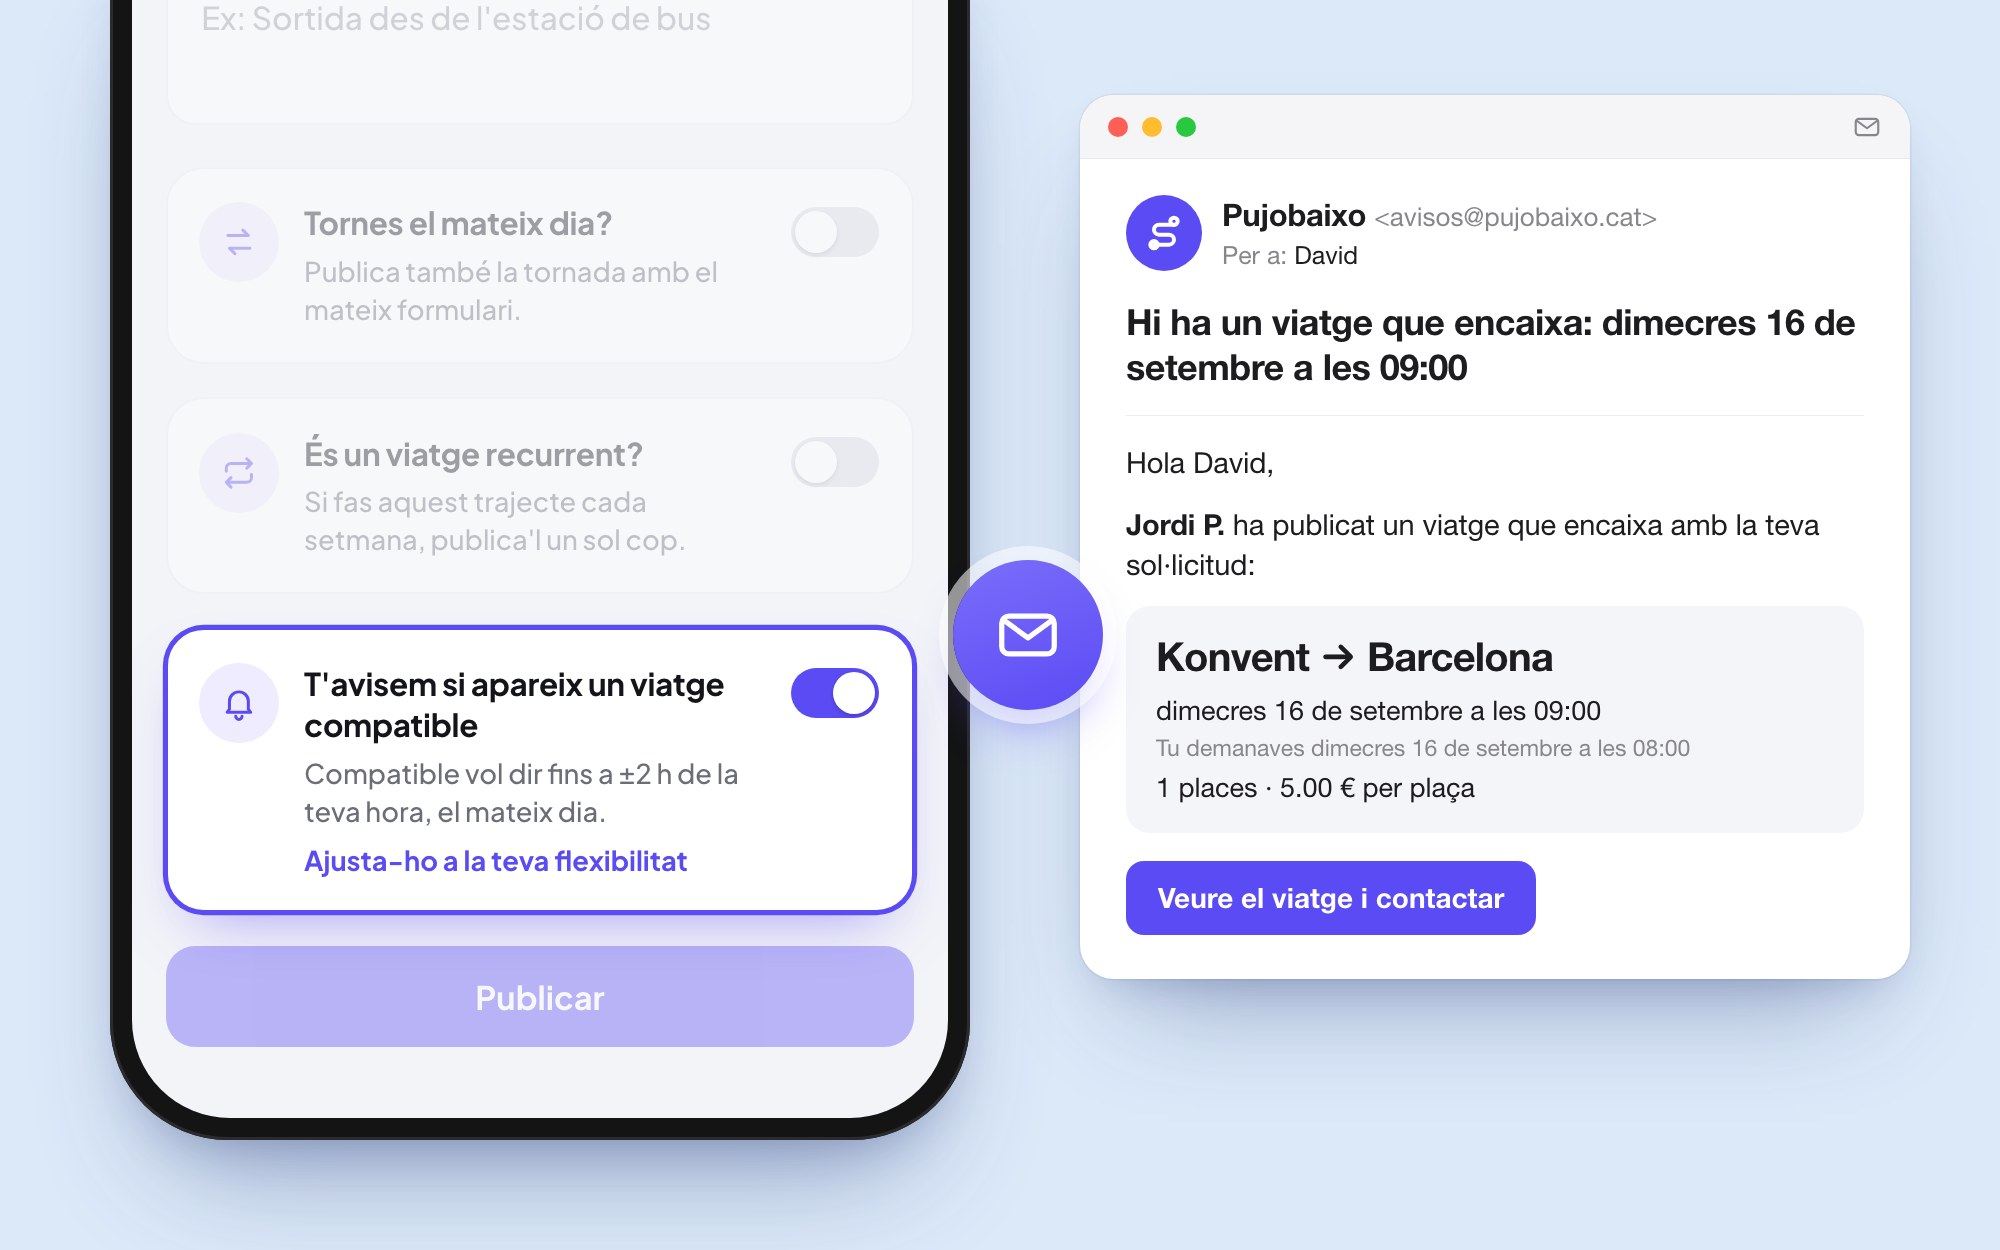
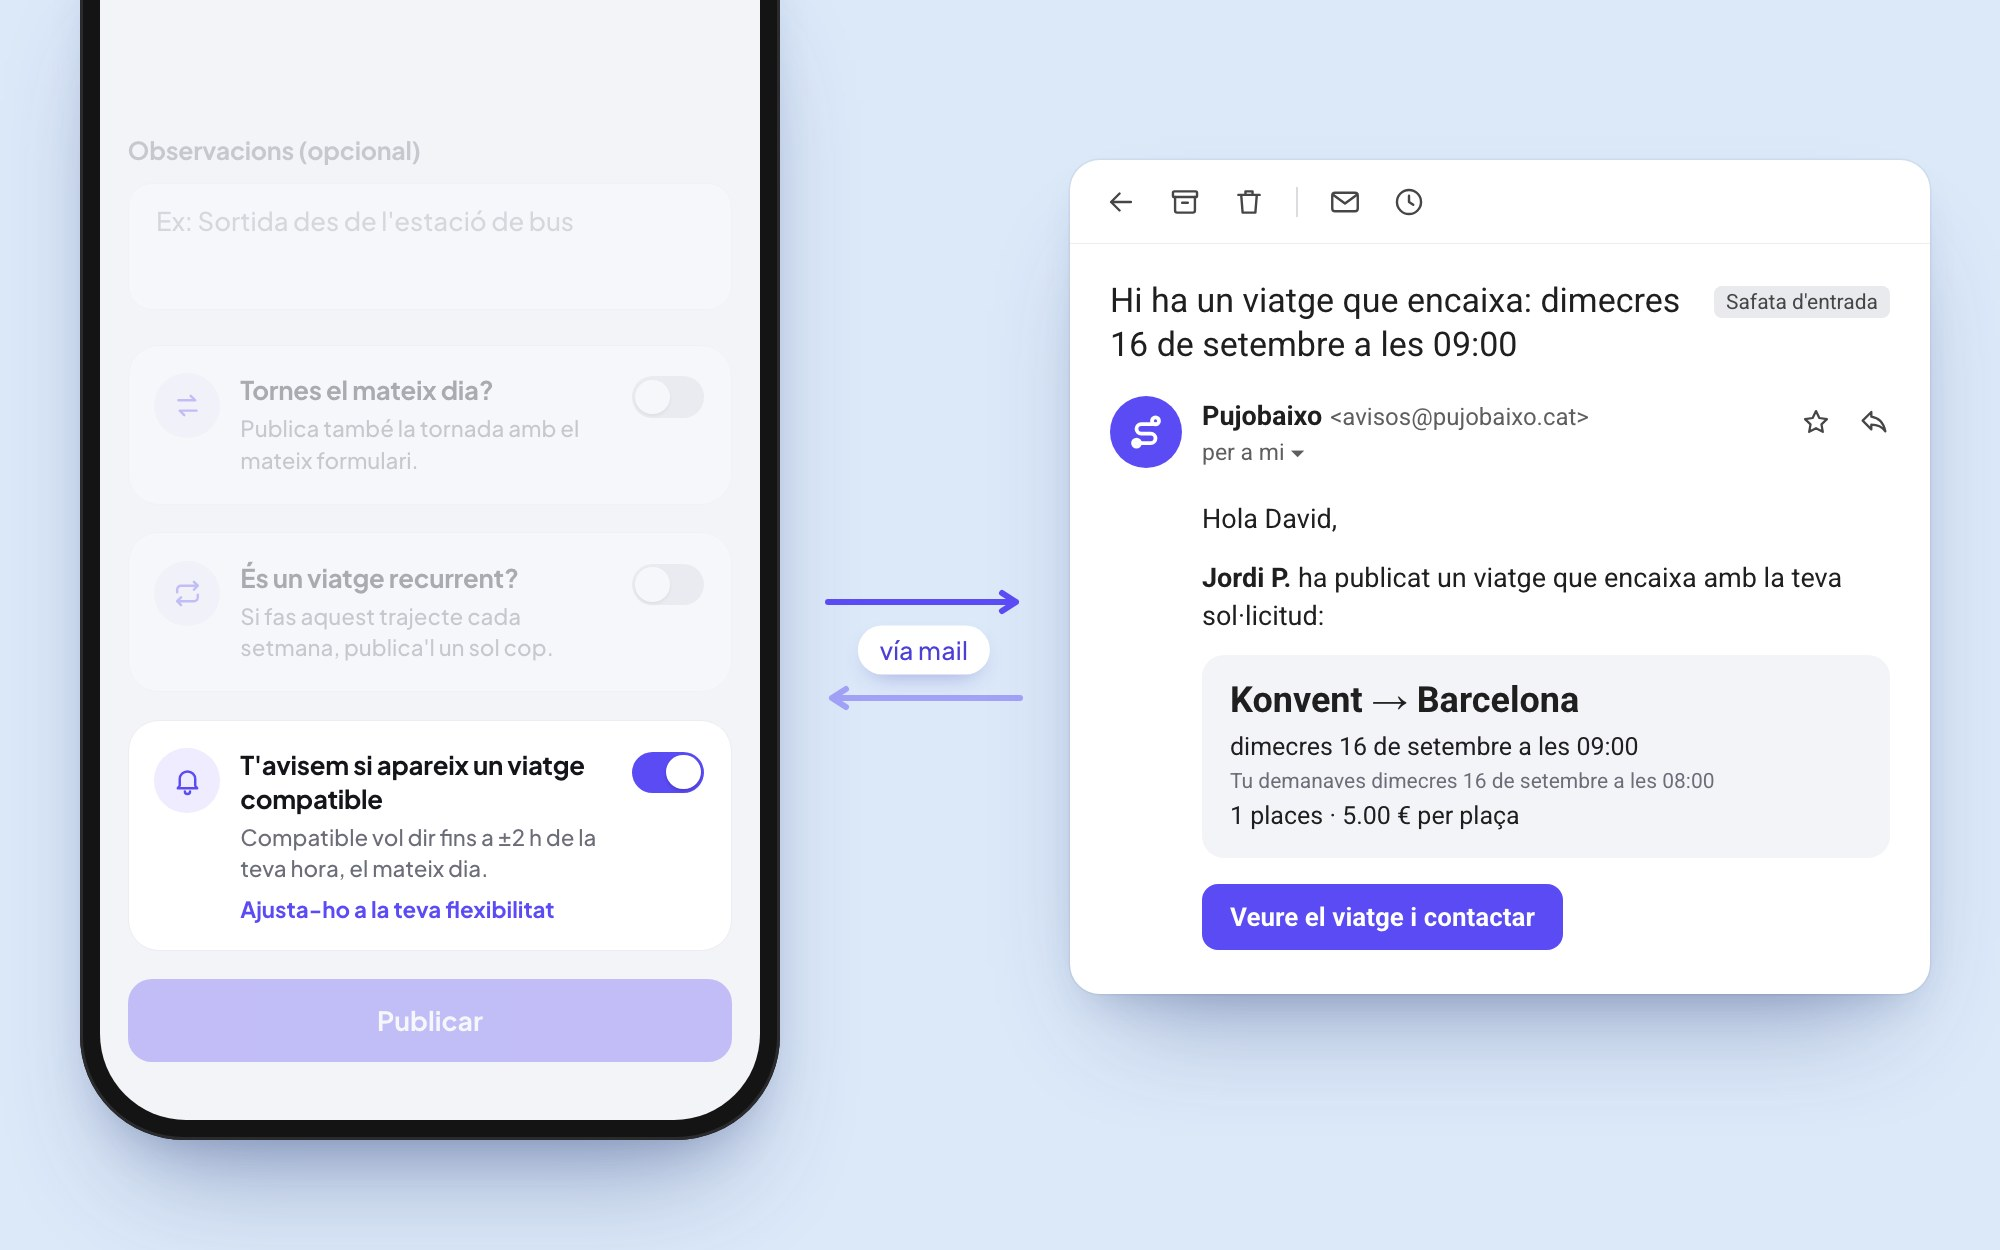
Pujo Baixo: el aviso, con correo tipo Gmail y flechas «vía mail»

Changed region(s): [[0.031, 0.0, 0.992, 0.9672], [0.155, 0.2184, 0.279, 0.2496]]

diff --git a/pujobaixo.html b/pujobaixo.html
@@ -7,9 +7,9 @@
 <meta name="description" content="Pujo Baixo: de un experimento en WhatsApp a una red local para compartir coche entre el Berguedà y Barcelona.">
 <link rel="preconnect" href="https://fonts.googleapis.com">
 <link rel="stylesheet" href="https://fonts.googleapis.com/css2?family=Figtree:wght@400;500;600;700&family=Fraunces:opsz,wght@9..144,600&display=swap">
-<link rel="stylesheet" href="css/base.css?v=5b738f8">
-<link rel="stylesheet" href="css/caso.css?v=5b738f8">
-<script src="js/comun.js?v=5b738f8" defer></script>
+<link rel="stylesheet" href="css/base.css?v=75cdf43">
+<link rel="stylesheet" href="css/caso.css?v=75cdf43">
+<script src="js/comun.js?v=75cdf43" defer></script>
 <script src="analytics.js" defer></script>
 </head>
 <body class="p-pujobaixo">
@@ -155,7 +155,7 @@
       <h3>Repetir sin empezar de cero</h3>
       <p>Las últimas funcionalidades reducen el esfuerzo de quien hace el trayecto a menudo: publicar la vuelta en el mismo formulario, marcar un viaje como recurrente para publicarlo una sola vez y recibir un aviso si aparece un viaje compatible (hasta ±2 h, el mismo día, ajustable).</p>
       <p>El aviso llega por correo, personalizado: quién ha publicado, la ruta, su hora frente a la que pedías y un botón para contactar.</p>
-      <figure class="inbody"><button type="button" class="js-zoom" aria-label="Ampliar: el aviso por correo"><img src="img/pujobaixo/pb-aviso.jpg" alt="El aviso de Pujobaixo en una sola imagen: a la izquierda, la parte baja del formulario con T'avisem si apareix un viatge compatible activado y destacado; en el centro, un icono de correo; a la derecha, el correo en una ventana de app de correo, de Pujobaixo <avisos@pujobaixo.cat> para David, con el asunto Hi ha un viatge que encaixa: dimecres 16 de setembre a les 09:00, el viaje Konvent → Barcelona y el botón Veure el viatge i contactar" loading="lazy"></button><figcaption>Se activa al publicar la solicitud y, cuando aparece un viaje compatible, llega un correo con el viaje y un botón para contactar.</figcaption></figure>
+      <figure class="inbody"><button type="button" class="js-zoom" aria-label="Ampliar: el aviso por correo"><img src="img/pujobaixo/pb-aviso.jpg" alt="El aviso de Pujobaixo en una sola imagen: a la izquierda, la parte baja del formulario con T'avisem si apareix un viatge compatible activado y el resto atenuado; en el centro, unas flechas de ida y vuelta con la etiqueta vía mail; a la derecha, el correo abierto en un buzón tipo Gmail, de Pujobaixo <avisos@pujobaixo.cat>, con el asunto Hi ha un viatge que encaixa: dimecres 16 de setembre a les 09:00, el viaje Konvent → Barcelona y el botón Veure el viatge i contactar" loading="lazy"></button><figcaption>Se activa al publicar la solicitud y, cuando aparece un viaje compatible, llega un correo con el viaje y un botón para contactar.</figcaption></figure>
     </div>
   </section>
   <section class="row col">
@@ -205,6 +205,6 @@
   <span>Barcelona · 2026</span>
 </div></footer>
 
-<script src="js/caso.js?v=5b738f8"></script>
+<script src="js/caso.js?v=75cdf43"></script>
 </body>
 </html>

diff --git a/en/pujobaixo.html b/en/pujobaixo.html
@@ -8,9 +8,9 @@
 <meta name="description" content="Pujo Baixo: from a WhatsApp experiment to a local carpooling network between Berguedà and Barcelona.">
 <link rel="preconnect" href="https://fonts.googleapis.com">
 <link rel="stylesheet" href="https://fonts.googleapis.com/css2?family=Figtree:wght@400;500;600;700&family=Fraunces:opsz,wght@9..144,600&display=swap">
-<link rel="stylesheet" href="css/base.css?v=5b738f8">
-<link rel="stylesheet" href="css/caso.css?v=5b738f8">
-<script src="js/comun.js?v=5b738f8" defer></script>
+<link rel="stylesheet" href="css/base.css?v=75cdf43">
+<link rel="stylesheet" href="css/caso.css?v=75cdf43">
+<script src="js/comun.js?v=75cdf43" defer></script>
 <script src="analytics.js" defer></script>
 </head>
 <body class="p-pujobaixo">
@@ -156,7 +156,7 @@
       <h3>Repeating without starting from scratch</h3>
       <p>The latest features reduce the effort for people who make the trip often: post the return trip in the same form, mark a trip as recurring so it’s posted only once, and get an alert if a compatible trip appears (within ±2 h, same day, adjustable).</p>
       <p>The alert arrives by email, personalized: who posted, the route, their time versus the one you asked for, and a button to get in touch.</p>
-      <figure class="inbody"><button type="button" class="js-zoom" aria-label="Enlarge: the email alert"><img src="img/pujobaixo/pb-aviso.jpg" alt="The Pujobaixo alert in a single image: on the left, the bottom of the form with T'avisem si apareix un viatge compatible switched on and highlighted; in the middle, an email icon; on the right, the email in a mail app window, from Pujobaixo <avisos@pujobaixo.cat> to David, with the subject Hi ha un viatge que encaixa: dimecres 16 de setembre a les 09:00, the Konvent → Barcelona trip and the button to see the trip and get in touch" loading="lazy"></button><figcaption>It’s switched on when posting the request and, when a compatible trip appears, an email arrives with the trip and a button to get in touch.</figcaption></figure>
+      <figure class="inbody"><button type="button" class="js-zoom" aria-label="Enlarge: the email alert"><img src="img/pujobaixo/pb-aviso.jpg" alt="The Pujobaixo alert in a single image: on the left, the bottom of the form with T'avisem si apareix un viatge compatible switched on and the rest dimmed; in the middle, two-way arrows labelled vía mail (“by email”); on the right, the email open in a Gmail-style inbox, from Pujobaixo <avisos@pujobaixo.cat>, with the subject Hi ha un viatge que encaixa: dimecres 16 de setembre a les 09:00, the Konvent → Barcelona trip and the button to see the trip and get in touch" loading="lazy"></button><figcaption>It’s switched on when posting the request and, when a compatible trip appears, an email arrives with the trip and a button to get in touch.</figcaption></figure>
     </div>
   </section>
   <section class="row col">
@@ -206,6 +206,6 @@
   <span>Barcelona · 2026</span>
 </div></footer>
 
-<script src="js/caso.js?v=5b738f8"></script>
+<script src="js/caso.js?v=75cdf43"></script>
 </body>
 </html>

diff --git a/index.html b/index.html
@@ -7,10 +7,10 @@
 <meta name="description" content="Portfolio de David Chia: una ciudad isométrica con tres productos reales, de la idea al producto en marcha.">
 <link rel="preconnect" href="https://fonts.googleapis.com">
 <link rel="stylesheet" href="https://fonts.googleapis.com/css2?family=Figtree:wght@400;500;600;700&family=Fraunces:opsz,wght@9..144,600&display=swap">
-<link rel="stylesheet" href="css/base.css?v=5b738f8">
-<link rel="stylesheet" href="css/dibujo.css?v=5b738f8">
-<link rel="stylesheet" href="css/ciudad.css?v=5b738f8">
-<script src="js/comun.js?v=5b738f8" defer></script>
+<link rel="stylesheet" href="css/base.css?v=75cdf43">
+<link rel="stylesheet" href="css/dibujo.css?v=75cdf43">
+<link rel="stylesheet" href="css/ciudad.css?v=75cdf43">
+<script src="js/comun.js?v=75cdf43" defer></script>
 <script src="analytics.js" defer></script>
 </head>
 <body class="p-ciudad">
@@ -60,9 +60,9 @@
   <span>Barcelona · 2026</span>
 </div></footer>
 
-<script src="js/ciudad/datos.js?v=5b738f8"></script>
-<script src="js/ciudad/iso.js?v=5b738f8"></script>
-<script src="js/ciudad/escena.js?v=5b738f8"></script>
-<script src="js/ciudad/ui.js?v=5b738f8"></script>
+<script src="js/ciudad/datos.js?v=75cdf43"></script>
+<script src="js/ciudad/iso.js?v=75cdf43"></script>
+<script src="js/ciudad/escena.js?v=75cdf43"></script>
+<script src="js/ciudad/ui.js?v=75cdf43"></script>
 </body>
 </html>

diff --git a/en/index.html b/en/index.html
@@ -8,10 +8,10 @@
 <meta name="description" content="David Chia’s portfolio: an isometric city with three real products, from idea to live product.">
 <link rel="preconnect" href="https://fonts.googleapis.com">
 <link rel="stylesheet" href="https://fonts.googleapis.com/css2?family=Figtree:wght@400;500;600;700&family=Fraunces:opsz,wght@9..144,600&display=swap">
-<link rel="stylesheet" href="css/base.css?v=5b738f8">
-<link rel="stylesheet" href="css/dibujo.css?v=5b738f8">
-<link rel="stylesheet" href="css/ciudad.css?v=5b738f8">
-<script src="js/comun.js?v=5b738f8" defer></script>
+<link rel="stylesheet" href="css/base.css?v=75cdf43">
+<link rel="stylesheet" href="css/dibujo.css?v=75cdf43">
+<link rel="stylesheet" href="css/ciudad.css?v=75cdf43">
+<script src="js/comun.js?v=75cdf43" defer></script>
 <script src="analytics.js" defer></script>
 </head>
 <body class="p-ciudad">
@@ -61,9 +61,9 @@
   <span>Barcelona · 2026</span>
 </div></footer>
 
-<script src="js/ciudad/datos.js?v=5b738f8"></script>
-<script src="js/ciudad/iso.js?v=5b738f8"></script>
-<script src="js/ciudad/escena.js?v=5b738f8"></script>
-<script src="js/ciudad/ui.js?v=5b738f8"></script>
+<script src="js/ciudad/datos.js?v=75cdf43"></script>
+<script src="js/ciudad/iso.js?v=75cdf43"></script>
+<script src="js/ciudad/escena.js?v=75cdf43"></script>
+<script src="js/ciudad/ui.js?v=75cdf43"></script>
 </body>
 </html>

diff --git a/sobre-mi.html b/sobre-mi.html
@@ -7,10 +7,10 @@
 <meta name="description" content="David Chia, Product Designer & Builder: de la idea al producto en marcha.">
 <link rel="preconnect" href="https://fonts.googleapis.com">
 <link rel="stylesheet" href="https://fonts.googleapis.com/css2?family=Figtree:wght@400;500;600;700&family=Fraunces:opsz,wght@9..144,600&display=swap">
-<link rel="stylesheet" href="css/base.css?v=5b738f8">
-<link rel="stylesheet" href="css/caso.css?v=5b738f8">
-<link rel="stylesheet" href="css/sobre-mi.css?v=5b738f8">
-<script src="js/comun.js?v=5b738f8" defer></script>
+<link rel="stylesheet" href="css/base.css?v=75cdf43">
+<link rel="stylesheet" href="css/caso.css?v=75cdf43">
+<link rel="stylesheet" href="css/sobre-mi.css?v=75cdf43">
+<script src="js/comun.js?v=75cdf43" defer></script>
 <script src="analytics.js" defer></script>
 </head>
 <body class="p-sobremi">
@@ -127,6 +127,6 @@
   <span>Barcelona · 2026</span>
 </div></footer>
 
-<script src="js/caso.js?v=5b738f8"></script>
+<script src="js/caso.js?v=75cdf43"></script>
 </body>
 </html>

diff --git a/en/sobre-mi.html b/en/sobre-mi.html
@@ -8,10 +8,10 @@
 <meta name="description" content="David Chia, Product Designer & Builder: from idea to live product.">
 <link rel="preconnect" href="https://fonts.googleapis.com">
 <link rel="stylesheet" href="https://fonts.googleapis.com/css2?family=Figtree:wght@400;500;600;700&family=Fraunces:opsz,wght@9..144,600&display=swap">
-<link rel="stylesheet" href="css/base.css?v=5b738f8">
-<link rel="stylesheet" href="css/caso.css?v=5b738f8">
-<link rel="stylesheet" href="css/sobre-mi.css?v=5b738f8">
-<script src="js/comun.js?v=5b738f8" defer></script>
+<link rel="stylesheet" href="css/base.css?v=75cdf43">
+<link rel="stylesheet" href="css/caso.css?v=75cdf43">
+<link rel="stylesheet" href="css/sobre-mi.css?v=75cdf43">
+<script src="js/comun.js?v=75cdf43" defer></script>
 <script src="analytics.js" defer></script>
 </head>
 <body class="p-sobremi">
@@ -128,6 +128,6 @@
   <span>Barcelona · 2026</span>
 </div></footer>
 
-<script src="js/caso.js?v=5b738f8"></script>
+<script src="js/caso.js?v=75cdf43"></script>
 </body>
 </html>

diff --git a/k-rooms.html b/k-rooms.html
@@ -7,9 +7,9 @@
 <meta name="description" content="K Rooms: una webapp a medida como única fuente de información y gestión de las habitaciones de Konvent.">
 <link rel="preconnect" href="https://fonts.googleapis.com">
 <link rel="stylesheet" href="https://fonts.googleapis.com/css2?family=Figtree:wght@400;500;600;700&family=Fraunces:opsz,wght@9..144,600&display=swap">
-<link rel="stylesheet" href="css/base.css?v=5b738f8">
-<link rel="stylesheet" href="css/caso.css?v=5b738f8">
-<script src="js/comun.js?v=5b738f8" defer></script>
+<link rel="stylesheet" href="css/base.css?v=75cdf43">
+<link rel="stylesheet" href="css/caso.css?v=75cdf43">
+<script src="js/comun.js?v=75cdf43" defer></script>
 <script src="analytics.js" defer></script>
 </head>
 <body class="p-krooms">
@@ -240,6 +240,6 @@
   <span>Barcelona · 2026</span>
 </div></footer>
 
-<script src="js/caso.js?v=5b738f8"></script>
+<script src="js/caso.js?v=75cdf43"></script>
 </body>
 </html>

diff --git a/pagopero.html b/pagopero.html
@@ -7,9 +7,9 @@
 <meta name="description" content="Pagopero: una lista compartida de pagos para cobrar gastos de grupo por Bizum sin perseguir a nadie.">
 <link rel="preconnect" href="https://fonts.googleapis.com">
 <link rel="stylesheet" href="https://fonts.googleapis.com/css2?family=Figtree:wght@400;500;600;700&family=Fraunces:opsz,wght@9..144,600&display=swap">
-<link rel="stylesheet" href="css/base.css?v=5b738f8">
-<link rel="stylesheet" href="css/caso.css?v=5b738f8">
-<script src="js/comun.js?v=5b738f8" defer></script>
+<link rel="stylesheet" href="css/base.css?v=75cdf43">
+<link rel="stylesheet" href="css/caso.css?v=75cdf43">
+<script src="js/comun.js?v=75cdf43" defer></script>
 <script src="analytics.js" defer></script>
 </head>
 <body class="p-pagopero">
@@ -200,6 +200,6 @@
   <span>Barcelona · 2026</span>
 </div></footer>
 
-<script src="js/caso.js?v=5b738f8"></script>
+<script src="js/caso.js?v=75cdf43"></script>
 </body>
 </html>

diff --git a/en/k-rooms.html b/en/k-rooms.html
@@ -8,9 +8,9 @@
 <meta name="description" content="K Rooms: a tailored web app as the single source of information and management for Konvent’s rooms.">
 <link rel="preconnect" href="https://fonts.googleapis.com">
 <link rel="stylesheet" href="https://fonts.googleapis.com/css2?family=Figtree:wght@400;500;600;700&family=Fraunces:opsz,wght@9..144,600&display=swap">
-<link rel="stylesheet" href="css/base.css?v=5b738f8">
-<link rel="stylesheet" href="css/caso.css?v=5b738f8">
-<script src="js/comun.js?v=5b738f8" defer></script>
+<link rel="stylesheet" href="css/base.css?v=75cdf43">
+<link rel="stylesheet" href="css/caso.css?v=75cdf43">
+<script src="js/comun.js?v=75cdf43" defer></script>
 <script src="analytics.js" defer></script>
 </head>
 <body class="p-krooms">
@@ -241,6 +241,6 @@
   <span>Barcelona · 2026</span>
 </div></footer>
 
-<script src="js/caso.js?v=5b738f8"></script>
+<script src="js/caso.js?v=75cdf43"></script>
 </body>
 </html>

diff --git a/en/pagopero.html b/en/pagopero.html
@@ -8,9 +8,9 @@
 <meta name="description" content="Pagopero: a shared payment list for collecting group expenses by Bizum without chasing anyone.">
 <link rel="preconnect" href="https://fonts.googleapis.com">
 <link rel="stylesheet" href="https://fonts.googleapis.com/css2?family=Figtree:wght@400;500;600;700&family=Fraunces:opsz,wght@9..144,600&display=swap">
-<link rel="stylesheet" href="css/base.css?v=5b738f8">
-<link rel="stylesheet" href="css/caso.css?v=5b738f8">
-<script src="js/comun.js?v=5b738f8" defer></script>
+<link rel="stylesheet" href="css/base.css?v=75cdf43">
+<link rel="stylesheet" href="css/caso.css?v=75cdf43">
+<script src="js/comun.js?v=75cdf43" defer></script>
 <script src="analytics.js" defer></script>
 </head>
 <body class="p-pagopero">
@@ -201,6 +201,6 @@
   <span>Barcelona · 2026</span>
 </div></footer>
 
-<script src="js/caso.js?v=5b738f8"></script>
+<script src="js/caso.js?v=75cdf43"></script>
 </body>
 </html>
